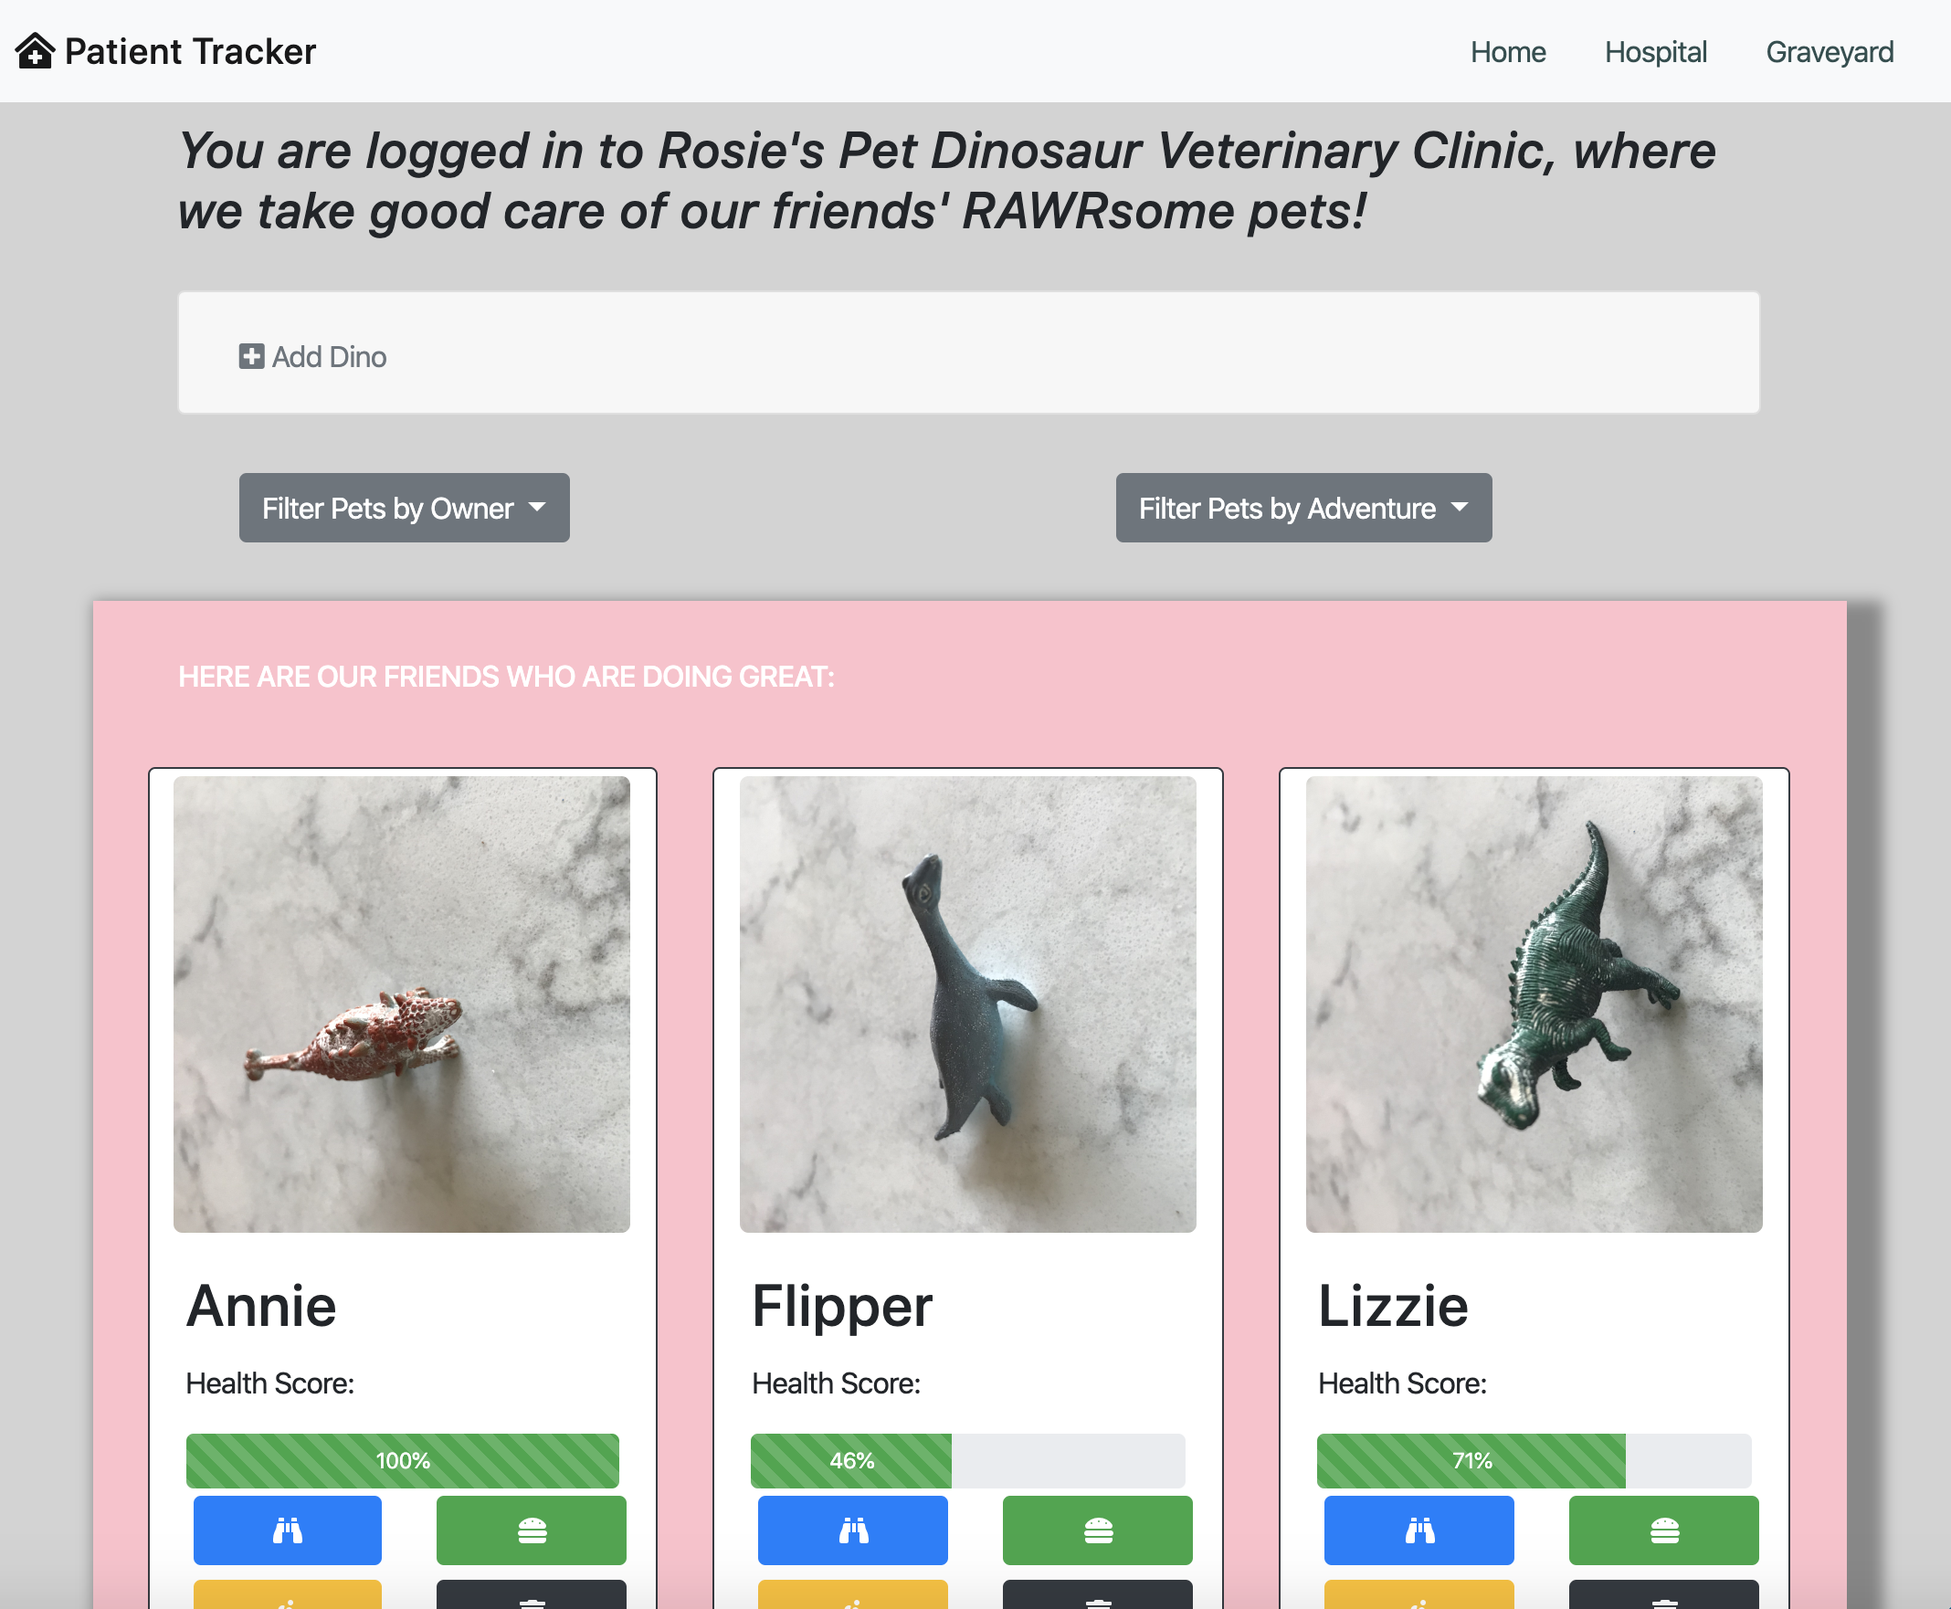
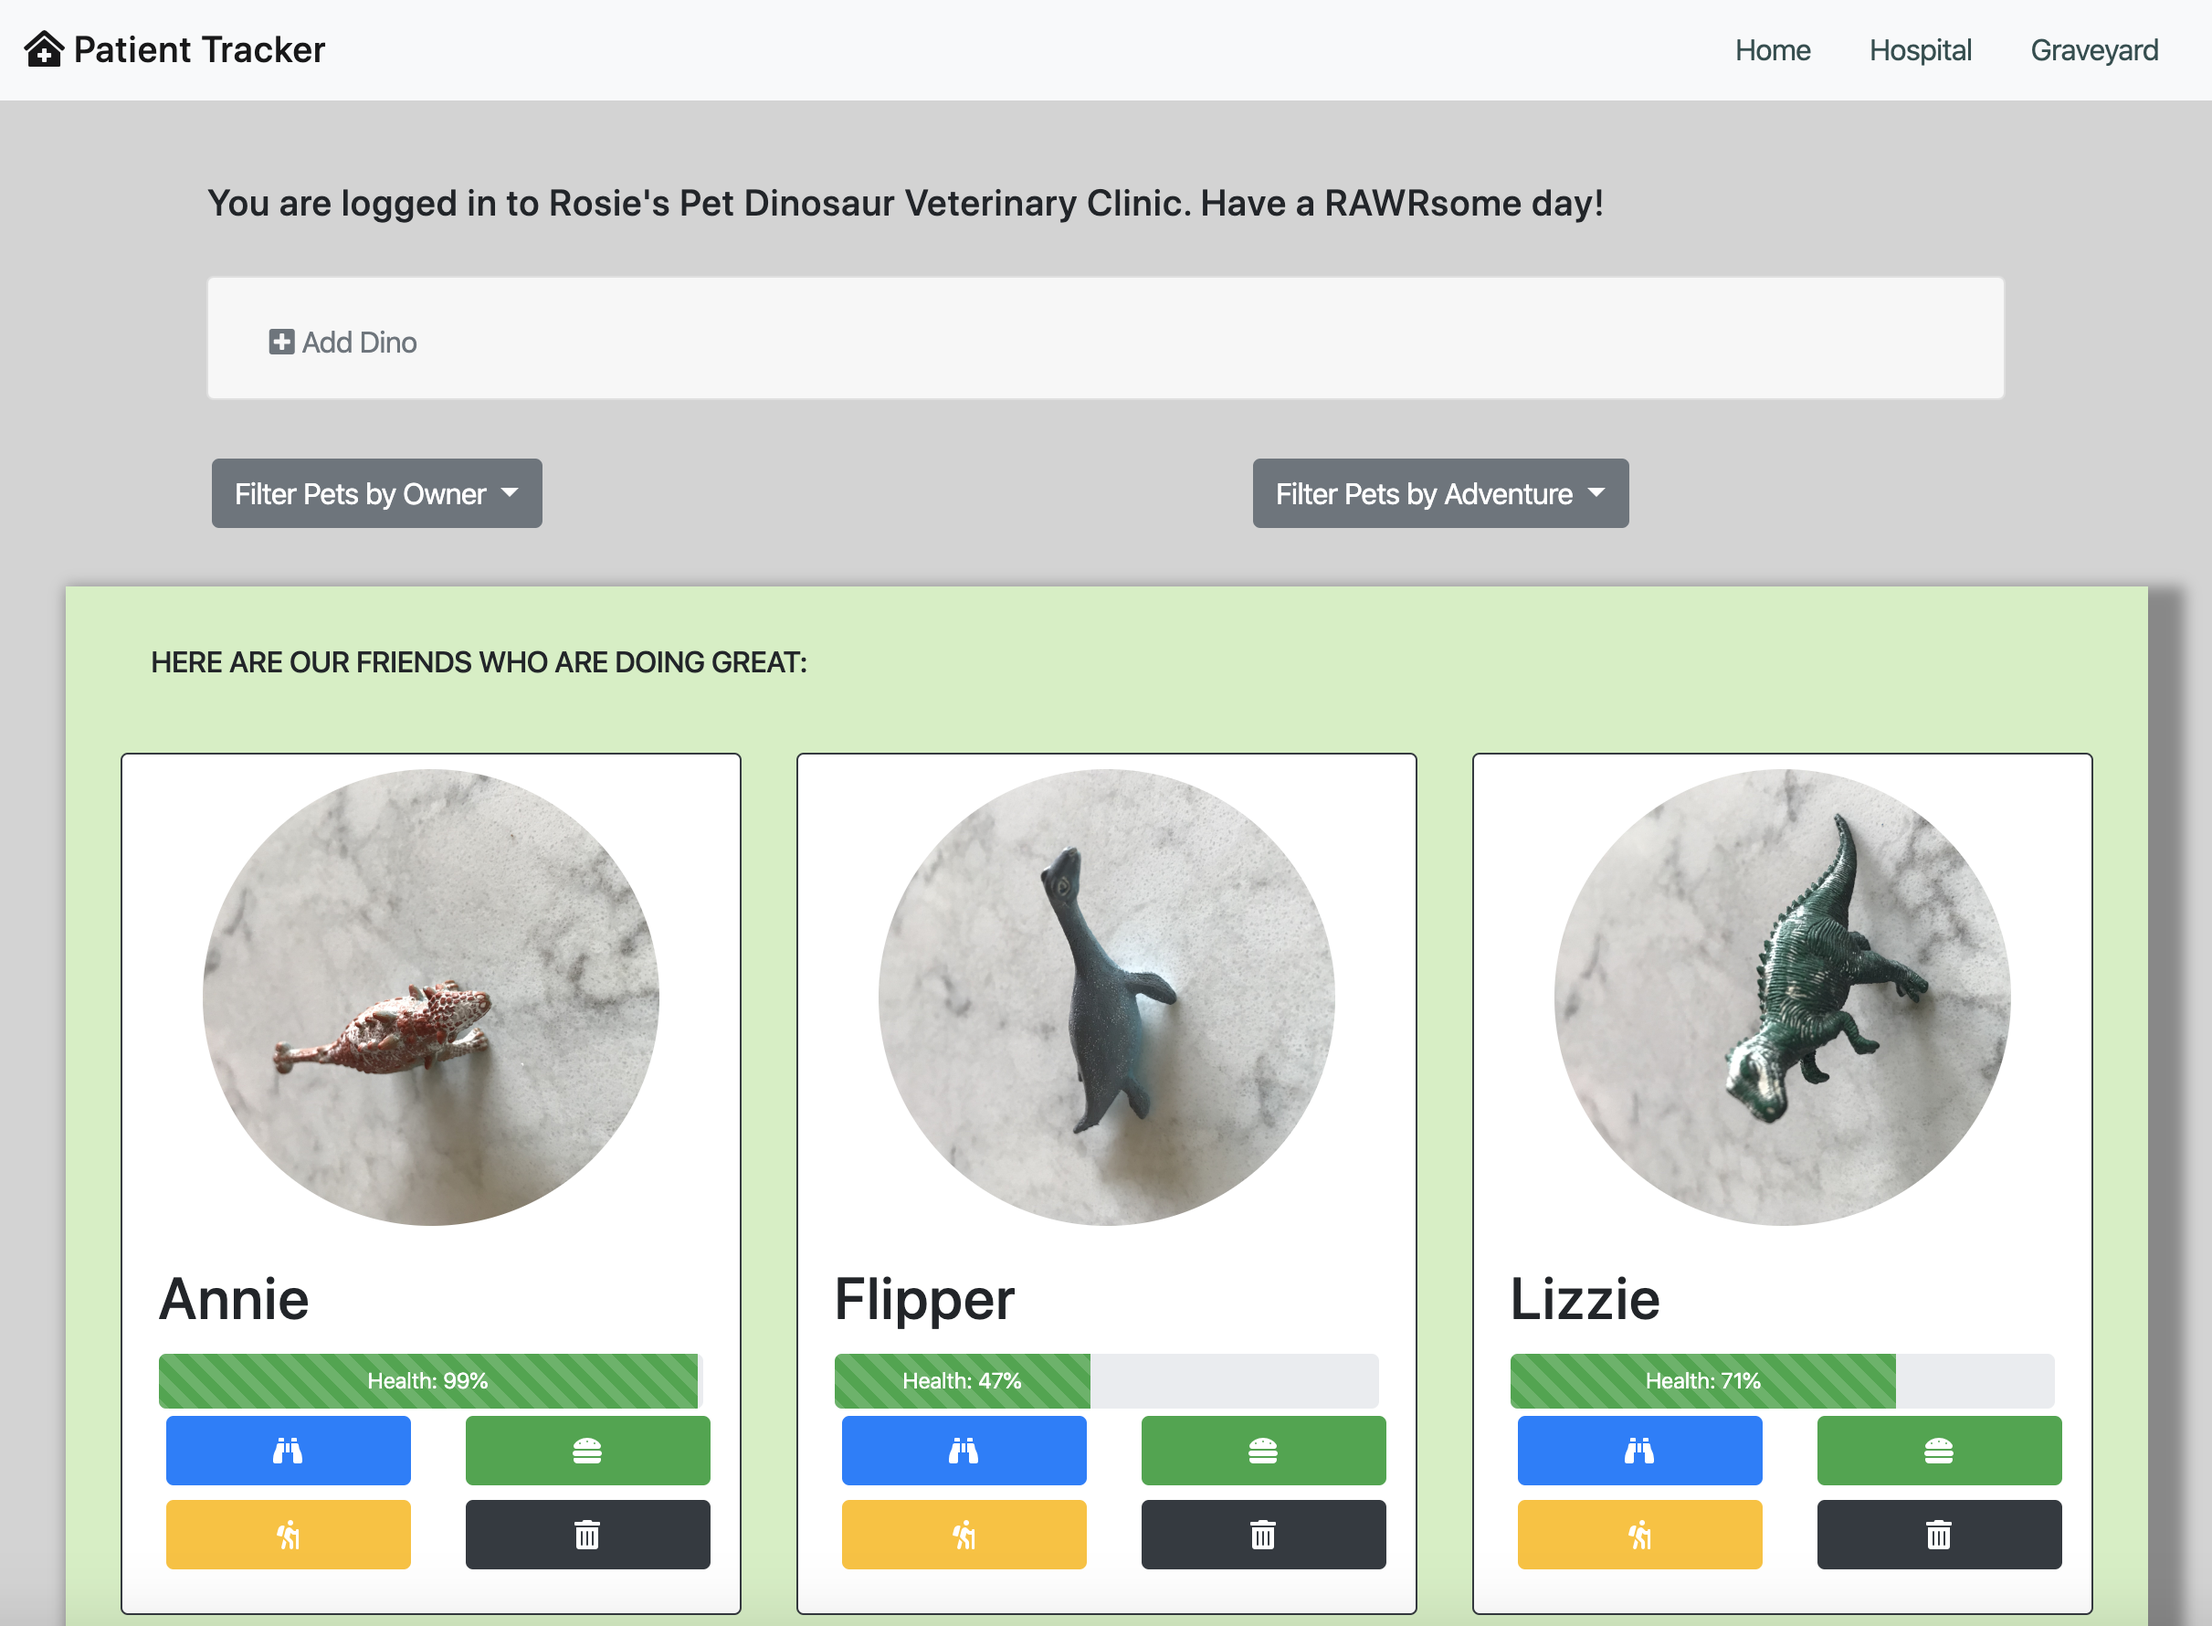
additional styling

diff --git a/src/javascripts/components/about/about.js b/src/javascripts/components/about/about.js
@@ -4,19 +4,21 @@ const buildAboutSection = () => {
   let domString = '<div>';
   domString += '<h2>About Me</h2>';
   domString += '<hr></hr>';
-  domString += '<div>';
-  domString += '<p class="text-center">I am currently attending the Nashville Software School. I have worked in the software development arena for over 10 years - initially as a technical writer and later as a business analyst and product manager. I am excited to finally delve into the nuts and bolts of programming after tangentially learning about it through my peers and projects.</p>';
-  domString += '<h4>Really curious to understand why I am pursuing development? Read on!</h4>';
+  domString += '<div class="d-flex mx-auto" style="width: 1000px;">';
+  domString += '<blockquote class="blockquote text-center">';
+  domString += '<p>I am currently attending the Nashville Software School. I have worked in the software development arena for over 10 years - initially as a technical writer and later as a business analyst and product manager. I am excited to finally delve into the nuts and bolts of programming after tangentially learning about it through my peers and projects.</p>';
+  domString += '<h4 class="font-italic">Really curious to understand why I am pursuing development? Read on!</h4>';
+  domString += '</blockquote>';
   domString += '</div>';
-  domString += '<div class="card-deck m-3">';
-  domString += '<div class="card p-1 m-1 border-dark bg-light">';
-  domString += '<p class="card-text">I still remember the awe, pride, and amazement I experienced when I went to a demo session with our developers where they were showing us the first iteration of a module for which I had written the business specifications and done the mockups. I had been a business analyst for a few months and written specs already for lots of little enhancements. Writing, testing, releasing, and training others on each of them had been exciting.</p>';
+  domString += '<div class="d-flex m-3 mx-auto" style="width: 1300px;">';
+  domString += '<div class="card p-3 m-1 border-dark bg-light col-md-4">';
+  domString += '<p class="card-text text-center">I still remember the awe, pride, and amazement I experienced when I went to a demo session with our developers where they were showing us the first iteration of a module for which I had written the business specifications and done the mockups. I had been a business analyst for a few months and written specs already for lots of little enhancements. Writing, testing, releasing, and training others on each of them had been exciting.</p>';
   domString += '</div>';
-  domString += '<div class="card p-1 m-1 border-dark bg-light>';
-  domString += '<p class="card-text">However, that internal demo with just our immediate team remains so memorable. There had been nothing, and now there was something - something I had envisioned and first put on paper. To be clear, it was most definitely not just my work. We had had lots of meetings with  clients, developers, my fellow BAs and my direct manager, who were instrumental in helping shape my thinking and our project. And then we had more meetings with customers to review mockups. And more tweaks. Numerous times.</p>';
+  domString += '<div class="card p-1 m-1 border-dark bg-light col-md-4">';
+  domString += '<p class="card-text text-center">However, that internal demo with just our immediate team remains so memorable. There had been nothing, and now there was something - something I had envisioned and first put on paper. To be clear, it was most definitely not just my work. We had had lots of meetings with  clients, developers, my fellow BAs and my direct manager, who were instrumental in helping shape my thinking and our project. And then we had more meetings with customers to review mockups. And more tweaks. Numerous times.</p>';
   domString += '</div>';
-  domString += '<div class="card p-1 m-1 border-dark bg-light>';
-  domString += '<p class="card-text">Yet, that moment of seeing something come out of nothing (in some ways) was remarkable. It was followed by much harder work - many sprints, many reviews, many edits, much testing. Watching our users envision the future benefits of this new feature always reminded me of that early first demo and my own surprise and delight. That’s why I am pursuing the developer role today. I plan to combine my previous skills and experience with what I am learning now so that I can continue to contribute in solving big and small business and technical problems.</p>';
+  domString += '<div class="card p-1 m-1 border-dark bg-light col-md-4">';
+  domString += '<p class="card-text text-center">Yet, that moment of seeing something come out of nothing (in some ways) was remarkable. It was followed by much harder work - many sprints, many reviews, many edits, much testing. Watching our users envision the future benefits of this new feature always reminded me of that early first demo and my own surprise and delight. That’s why I am pursuing the developer role today. I plan to combine my previous skills and experience with what I am learning now so that I can continue to contribute in solving big and small business and technical problems.</p>';
   domString += '</div>';
   domString += '</div>';
   utils.printToDom('bioPage', domString);

diff --git a/src/javascripts/helpers/data/projectData.js b/src/javascripts/helpers/data/projectData.js
@@ -2,32 +2,32 @@ const projects = [
   {
     title: 'Project',
     screenshot: 'http://gotoflashgames.com/files/file/033.jpg',
-    alt: 'Bears catching fish',
+    alt: 'tbd',
     description: 'This project is an exploration into using ES6 modules. It is a site that scientists and park rangers can use to track brown bear feeding behavior.',
     technologiesUsed: 'HTML, CSS, Vanilla JavaScript, Version Control with Github',
     available: true,
     url: 'https://github.com/ancasimon/bear-watcher',
-    githubUrl: 'https://github.com/ancasimon',
+    githubUrl: 'https://github.com/ancasimon/bear-watcher',
   },
   {
-    title: 'Sundews Smoozer Chatting App',
-    screenshot: 'http://gotoflashgames.com/files/file/033.jpg',
-    alt: 'chatting app with a sundew flower theme',
-    description: 'Sundew Smoozer is a messaging app that allows users to select user, send message that gets validated, delete messages, choose dark mode, adjust font-size, and clear all messages.',
-    technologiesUsed: 'HTML, CSS, Vanilla JavaScript, Version Control with Github',
-    available: true,
-    url: 'https://github.com/nss-evening-cohort-11/chatty-sundews',
-    githubUrl: 'https://github.com/ancasimon',
-  },
-  {
-    title: 'Project #3',
+    title: 'Project',
     screenshot: 'http://gotoflashgames.com/files/file/033.jpg',
     alt: 'tbd',
     description: 'project description: A good project description includes the what, the why, and the how',
     technologiesUsed: 'HTML, CSS, Vanilla JavaScript, Version Control with Github',
     available: true,
     url: 'https://github.com/ancasimon?tab=projects',
-    githubUrl: 'https://github.com/ancasimon',
+    githubUrl: 'https://github.com/ancasimon?tab=projects',
+  },
+  {
+    title: 'Sundews Smoozer Chatting App',
+    screenshot: 'http://gotoflashgames.com/files/file/033.jpg',
+    alt: 'chatting app with a sundew flower theme',
+    description: 'Sundew Smoozer is a messaging app that allows users to select user, send message that gets validated, delete messages, choose dark mode, adjust font-size, and clear all messages.',
+    technologiesUsed: 'CSS, ES6 Modules, Github (for version control), HTML, JavaScript (vanilla)',
+    available: true,
+    url: 'https://github.com/nss-evening-cohort-11/chatty-sundews',
+    githubUrl: 'https://github.com/nss-evening-cohort-11/chatty-sundews',
   },
   {
     title: 'Compete',
@@ -37,7 +37,7 @@ const projects = [
     technologiesUsed: 'CSS, ES6 Modules, Github (for version control), HTML, JavaScript (vanilla)',
     available: true,
     url: 'https://github.com/ancasimon/bear-watcher',
-    githubUrl: 'https://github.com/ancasimon',
+    githubUrl: 'https://github.com/ancasimon/bear-watcher',
   },
   {
     title: 'Patient Tracker',
@@ -47,7 +47,7 @@ const projects = [
     technologiesUsed: 'CSS, Github (for version control), HTML, JavaScript (vanilla)',
     available: true,
     url: 'https://github.com/ancasimon/dino-kennel',
-    githubUrl: 'https://github.com/ancasimon',
+    githubUrl: 'https://github.com/ancasimon/dino-kennel',
   },
 ];
 

diff --git a/src/javascripts/components/projects/projects.js b/src/javascripts/components/projects/projects.js
@@ -1,21 +1,22 @@
 import utils from '../../helpers/utils';
 import projectData from '../../helpers/data/projectData';
+import './projects.scss';
 
 const createProjectCards = () => {
   const projects = projectData.getProjects();
   let domString = '<div class="d-flex flex-wrap project-container">';
   projects.forEach((project) => {
     if (project.available === true) {
-      domString += '<div class="card project-card rounded-lg" style="width: 18rem;">';
-      domString += `<img src="${project.screenshot}" class="card-img-top full-img" alt="${project.alt}">`;
+      domString += '<div class="card project-card" style="width: 18rem;">';
+      domString += `<img src="${project.screenshot}" class="card-img-top" alt="${project.alt}">`;
       domString += '<div class="card-body">';
       domString += `<h5 class="card-title">${project.title}</h5>`;
       domString += `<p class="card-text">${project.description}</p>`;
       domString += `<h6 class="card-text">${project.technologiesUsed}</h6>`;
-      domString += '</div>';
-      domString += '<div class="card-body">';
+      // domString += '</div>';
+      // domString += '<div class="card-body">';
       domString += `<a href="${project.url}" class="card-link" target="_blank">Find it here</a>`;
-      domString += `<a href="${project.githubUrl}" class="card-link" target="_blank">Anca's Github</a>`;
+      domString += `<a href="${project.githubUrl}" class="card-link" target="_blank">And on Github</a>`;
       domString += '</div>';
       domString += '</div>';
     }

diff --git a/src/styles/main.scss b/src/styles/main.scss
@@ -1,6 +1,7 @@
 @import "~bootstrap/scss/bootstrap";
 @import "~@fortawesome/fontawesome-free/css/all.min.css";
 @import url('https://fonts.googleapis.com/css?family=Lato&display=swap');
+@import '../styles/colors.scss';
 
 body {
     font-family: 'Lato', sans-serif;
@@ -9,17 +10,16 @@ body {
     margin-left: 0;
     text-align: center;
     min-height: 400px;
-    margin-bottom: 100px;
 }
 
 h1 {
     font-size: 1em;
-    color: navy;
+    color: $dark-blue;
 }
 
 h2 {
     font-size: 1.5em;
-    color: navy;
+    color: $dark-blue;
     text-transform: uppercase;
 }
 
@@ -29,17 +29,6 @@ h2 {
     height: 100%;
     box-sizing:border-box;
     padding-top: 100px;
-}
-
-.project-container {
-    text-align: center;
-    align-items: center;
-}
-
-.project-card {
-    width: 25%;
-    border: 2px solid grey;
-    margin: 2em;
 }
 
 .full-img {
@@ -53,13 +42,17 @@ h6 {
 .page-footer {
     display: flex;
     background-color: white;
+    margin-bottom: 1em;
 }
 
 .footer-item {
     margin: auto; 
     padding: 20 px;
     font-size: 2em;
-    color: navy;
+}
+
+.margin-bottom {
+    margin-bottom: 5em;
 }
 
 a {
@@ -69,12 +62,12 @@ a {
 }
 
 a:hover {
-    color: navy;
+    color: $dark-blue;
 }
 
 a :active {
     text-decoration: underline;
-    color: navy;
+    color: $dark-blue;
 }
 
 p {

diff --git a/src/index.html b/src/index.html
@@ -19,11 +19,17 @@
         <h2>Technologies</h2>
         <hr></hr>
         <ul>
-            <li>HTML</li>
-            <li>CSS</li>
-            <li>Javascript</li>
-            <li>Github</li>
             <li>Bootstrap</li>
+            <li>CSS</li>
+            <li>ES6 Modules</li>
+            <li>Firebase (for authentication and database management)</li>
+            <li>Github (for version control)</li>
+            <li>HTML</li>
+            <li>Javascript</li>
+            <li>jQuery</li>
+            <li>LucidChart (for ERD planning)</li>
+            <li>moqups (for wireframes)</li>
+            <li>SASS</li>
             <li>More TBD</li>
         </ul>
     </div>
@@ -52,7 +58,7 @@
     <!--footer-->
     <div class="fullPage anchor" id="contact">
         <h2>Contact</h2>
-        <hr></hr>
+        <hr class="margin-bottom"></hr>
     <footer class="page-footer fixed-bottom">
         <a href="tel:1-615-498-2643" class="footer-item" target="_blank"><i class="fas fa-phone-square"></i></a>
         <a href="mailto:ancarsimon@gmail.com" class="footer-item" target="_blank"><i class="fas fa-at"></i></a>

diff --git a/src/javascripts/components/jumbotron/jumbotron.js b/src/javascripts/components/jumbotron/jumbotron.js
@@ -4,7 +4,7 @@ import './jumbotron.scss';
 const buildJumbotron = () => {
   let domString = '';
   domString += '<div class="card bg-dark text-white">';
-  domString += '<img id="jumbo-pic" src="../../../src/img-personal-bio-site/Anca_Charlies_Bunion.jpeg" alt="developer on top of Chalies Bunion, Smoky Mtns" class="card-img">';
+  domString += '<img id="jumbo-pic" src="../../../src/img-personal-bio-site/Anca_Charlies_Bunion.jpeg" alt="developer on top of Chalies Bunion, Smoky Mtns" class="card-img full-img img-fluid">';
   domString += '</div>';
   utils.printToDom('jumbo-div', domString);
 };

diff --git a/src/javascripts/components/projects/projects.scss b/src/javascripts/components/projects/projects.scss
@@ -1,0 +1,18 @@
+@import '../../../styles/_colors';
+@import '../../../styles/_variables';
+
+.project-container {
+  text-align: center;
+  align-items: center;
+}
+
+.project-card {
+  border: 2px solid grey;
+  border-radius: 5px;
+  margin: 2em;
+  box-shadow: $box-shadow;
+  img {
+    display: inline-block;
+    width: 100%;
+  }
+}

diff --git a/src/styles/_colors.scss b/src/styles/_colors.scss
@@ -1,1 +1,4 @@
-$dark-blue: #408AF1;
+$dark-blue: #3E7BBB;
+$light-blue: #7893B0;
+$red: #B13D37;
+$brown: #3B352A;

diff --git a/src/styles/_variables.scss b/src/styles/_variables.scss
@@ -1,0 +1,1 @@
+$box-shadow: 0px 0px 10px rgba(0,0,0,0.5);
